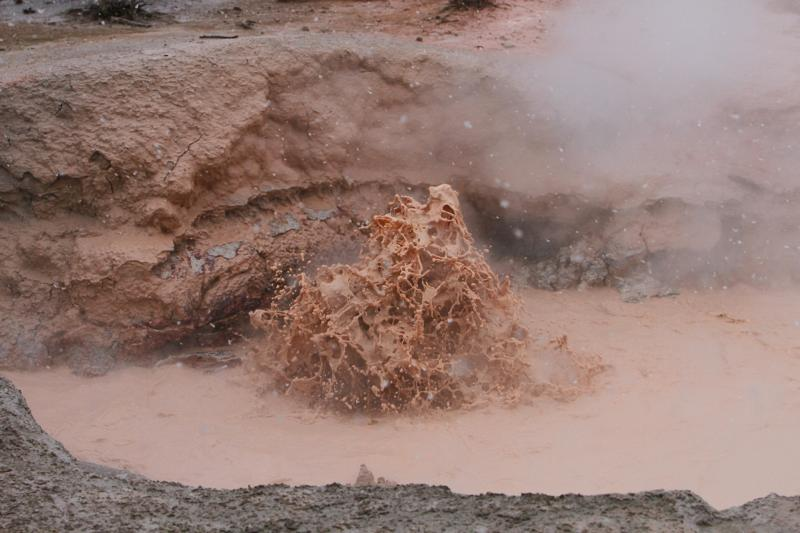
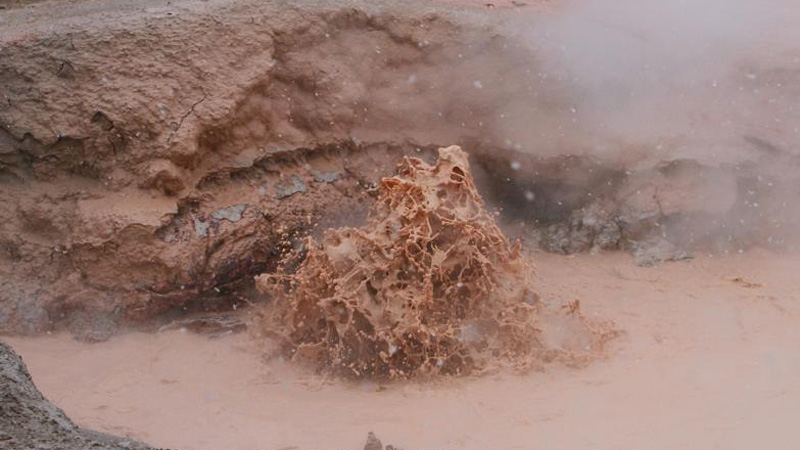
updated photos for 16x9

diff --git a/client/src/featurecard/FeatureCard.js b/client/src/featurecard/FeatureCard.js
@@ -33,6 +33,11 @@ export default class FeatureCard extends Component {
   }
   render () {
     var link = "/sight/" + this.props.sight.slug;
+    var img = '/img/sights/' + this.props.sight.img;
+    let meta = '';
+    if (this.props.sight.type) {
+      meta = this.props.sight.type
+    }
     const extra = (
       <a href={link}>Learn more</a>
     ) 
@@ -41,9 +46,9 @@ export default class FeatureCard extends Component {
       fluid={true}
       color='blue'
       href={link} 
-      image={this.props.sight.img}
+      image={img}
       header={this.props.sight.name}
-      meta='Friend'
+      meta={meta}
       description={this.props.sight.desc}
       extra={extra}
       />

diff --git a/client/src/sights/Sight.js b/client/src/sights/Sight.js
@@ -51,6 +51,7 @@ export default class Site extends Component {
     if (this.state.initialized) { 
       console.log(this.state.sight.sightData[0]);
       let allInfo = this.state.sight.sightData[0];
+      let img = '/img/sights/orig/' + allInfo.img;
       return (
         <div> 
           <h1>
@@ -61,7 +62,7 @@ export default class Site extends Component {
 
   <Grid>
     <Grid.Column computer={4} mobile={16} tablet={6}>
-      <Image src={allInfo.img} alt={allInfo.name} />
+      <Image src={img} alt={allInfo.name} />
     </Grid.Column>
     <Grid.Column computer={6} mobile={16} tablet={10}>
     <p>{allInfo.desc}</p>
